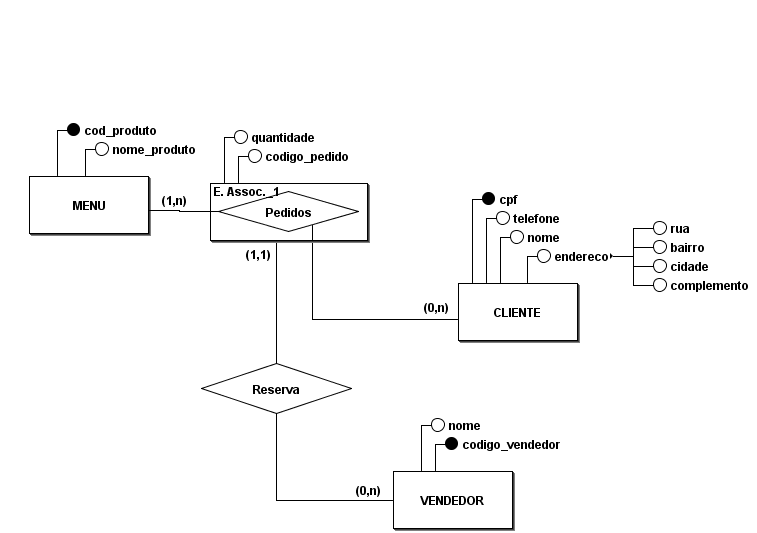
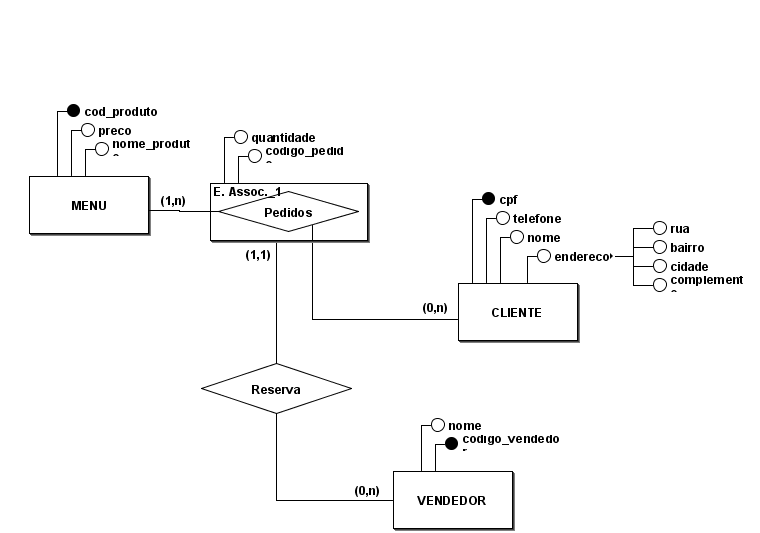
Atualização no modelo conceitual para adequar o Menu ao mini-mundo

diff --git a/README.md b/README.md
@@ -10,7 +10,7 @@ segundo_componente_do_grupo:diegopacheco.ufes@gmail.com<br>
 ...<br>
 
 ### 2.INTRODUÇÃO E MOTIVAÇÃO<br>
-A empresa "Barabos Comporation" visa facilitar a vida de todos que neste tempo não estão tendo como sair de casa devido a pandemia do NOvo corna virus. Sabendo-se dos desafios ficamos motivados com o desenvolvimento deste sistema. O Sistema "E-Market" tem como objetivo criar uma interface entre o comprador e os mercados. levando alimentos e produtos essenciais para todos e ajudado os mercados a não fecharem as portas.  
+A empresa "Brabo's Comporation" visa facilitar a vida de todos que neste tempo não estão tendo como sair de casa devido a pandemia do NOvo corna virus. Sabendo-se dos desafios ficamos motivados com o desenvolvimento deste sistema. O Sistema "E-Market" tem como objetivo criar uma interface entre o comprador e os mercados. levando alimentos e produtos essenciais para todos e ajudado os mercados a não fecharem as portas.  
 
 ### 3.MINI-MUNDO<br>
 
@@ -64,7 +64,7 @@ Sugestão: https://balsamiq.com/products/mockups/<br>
         Criar o esquema de forma a garantir a redução de informação redundante, possibilidade de valores null, 
         e tuplas falsas (Aplicar os conceitos de normalização abordados).   
         
-![Alt text](https://github.com/discipbd1/trab01/blob/master/images/concept_sample.png?raw=true "Modelo Conceitual")
+![Alt text](https://github.com/FelipeGante/E-Market/blob/master/images/modelo_conceitual.png?raw=true "Modelo Conceitual")
     
     
         
